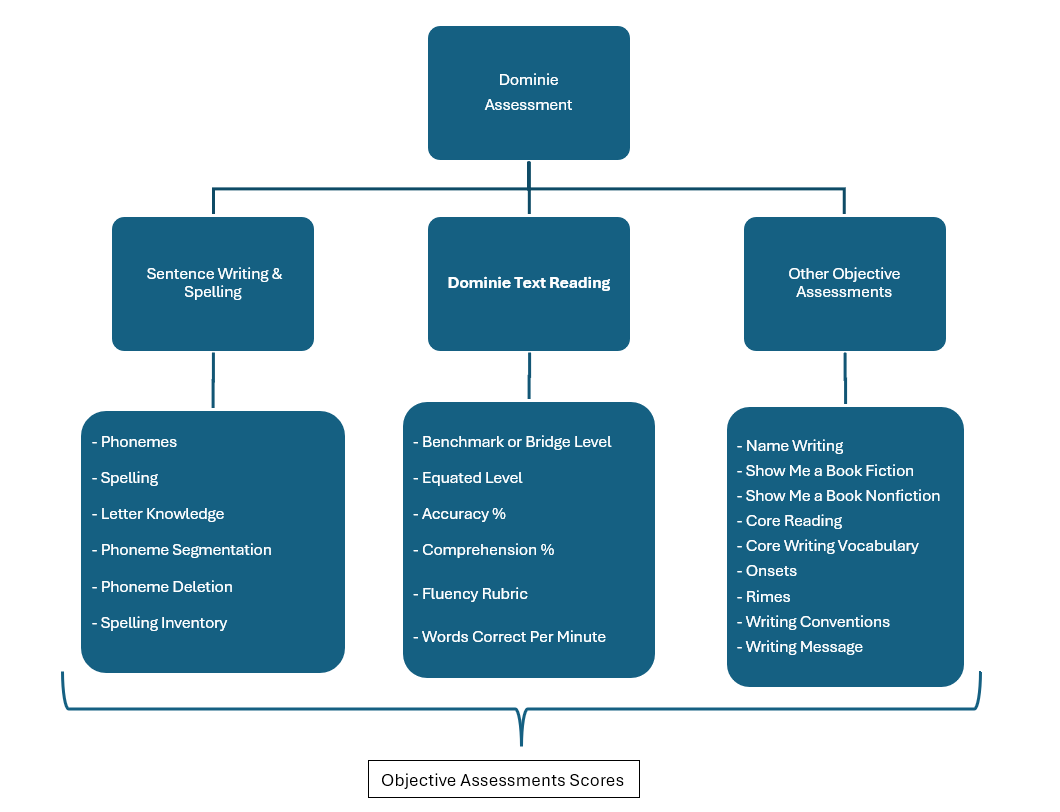
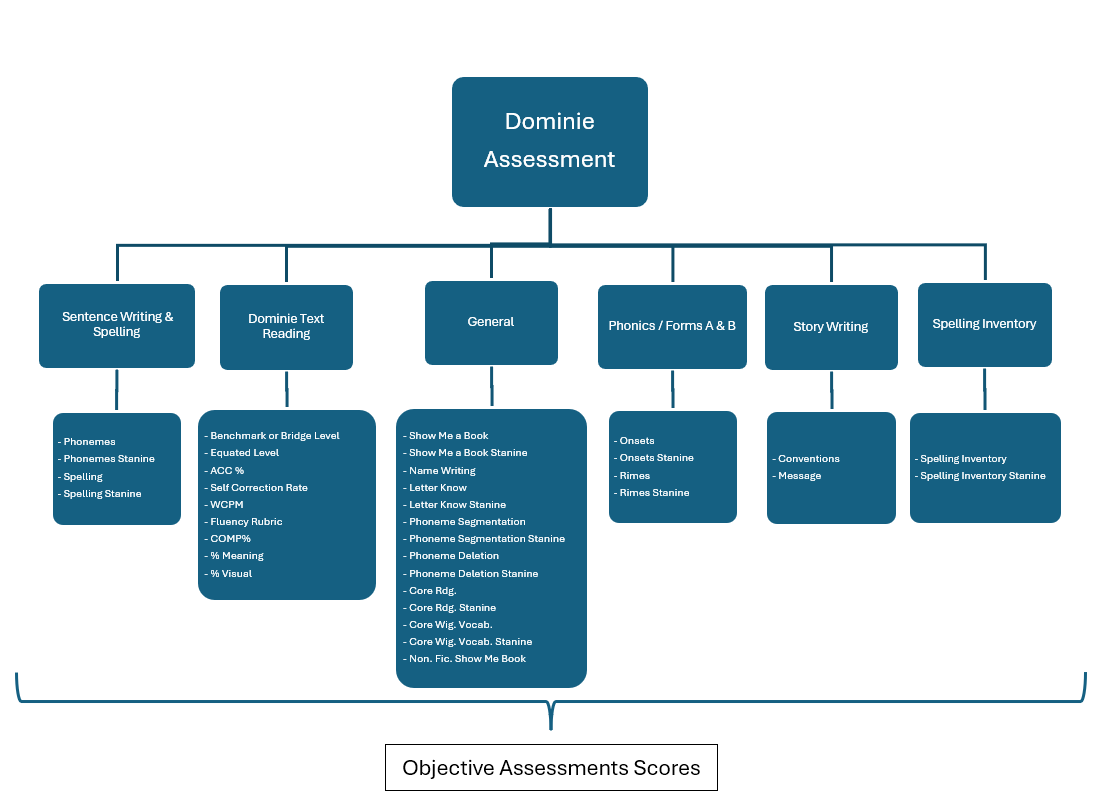
Updated the documentation.

Changed region(s): [[0.0, 0.031, 0.9651, 0.9913], [0.9651, 0.8364, 0.9962, 0.8674]]

diff --git a/assessments/Dominie/mapping.md b/assessments/Dominie/mapping.md
@@ -8,34 +8,40 @@ Dominie
 Dominie
 
 ## Objective Assessments
- - Phonemes
- - Spelling
- - Letter Knowledge
- - Phoneme Segmentation
- - Phoneme Deletion
- - Spelling Inventory
- - Benchmark or Bridge Level
- - Equated Level
- - Accuracy %
- - Comprehension %
- - Fluency Rubric
- - Words Correct Per Minute
- - Name Writing
- - Show Me a Book Fiction
- - Show Me a Book Nonfiction
- - Core Reading
- - Core Writing Vocabulary
- - Onsets
- - Rimes
- - Writing Conventions
- - Writing Message
+ - General - Show Me Book
+ - General - Name Writing
+ - General - Letter Know
+ - General - Phoneme Segmentation
+ - General - Phoneme Deletion
+ - General - Core Rdg.
+ - General - Core Wtg Vocab
+ - General - Non. Fic. Show Me Book
+ - Sentence Writing & Spelling - Phonemes
+ - Sentence Writing & Spelling - Spelling
+ - Dominie Text Reading - Benchmark or Bridge Level
+ - Dominie Text Reading - Equated Level
+ - Dominie Text Reading - ACC%
+ - Dominie Text Reading - Self Correction Rate
+ - Dominie Text Reading - WCPM
+ - Dominie Text Reading - Fluency Rubric
+ - Dominie Text Reading - COMP%
+ - Dominie Text Reading - % Meaning
+ - Dominie Text Reading - % Visual
+ - Phonics / Forms A & B - Onsets
+ - Phonics / Forms A & B - Rimes
+ - Story Writing - Conventions
+ - Story Writing - Message
+ - Spelling Inventory - Spelling Inventory
+
 
 ## Assessments Score Method Descriptors
 Each ObjectiveAssessment corresponds to a particular literacy skill. When multiple scoring methods are available for the same skill, such as a raw score and a stanine score, they are represented as separate score entries under the same ObjectiveAssessment.
+
+This assessment has the following Reporting Method Descriptors:
  - Raw Score: string
  - Percent: decimal
  - Stanine: Standard nine-point scale scores for norm-referenced interpretation (integer)
- - Rubric?: decimal
+ - Rubric: decimal
 
 # Hierarchy
 ![alt text](hierarchy.png)
@@ -88,7 +94,7 @@ This bundle produces the following Ed-Fi resources:
  - Raw Score: `uri://pearson.com/AssessmentReportingMethodDescriptor#Raw Score`
  - Percent: `uri://pearson.com/AssessmentReportingMethodDescriptor#Percent`
  - Stanine: `uri://pearson.com/AssessmentReportingMethodDescriptor#Stanine`
- - Rubric: `uri://pearson.com/AssessmentReportingMethodDescriptor#Rubric` ???
+ - Rubric: `uri://pearson.com/AssessmentReportingMethodDescriptor#Rubric`
 
 
 # Output Files
